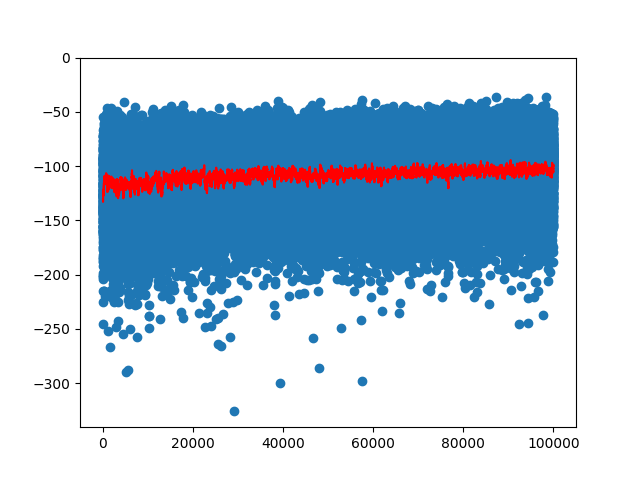
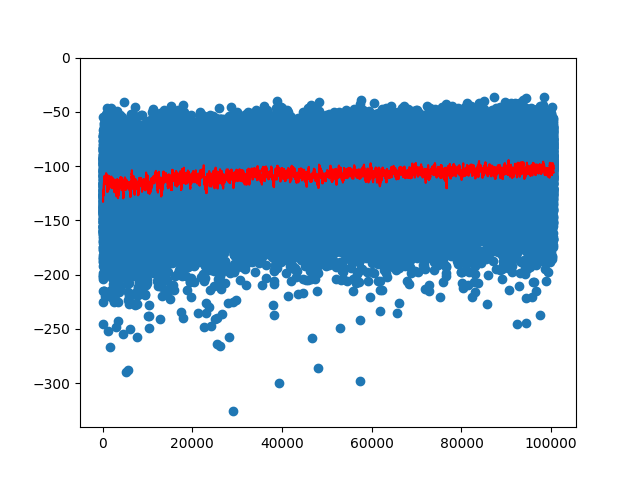
loading rewards

diff --git a/main_mb.py b/main_mb.py
@@ -12,6 +12,7 @@ N_AGENTS = 4
 MAX_EPISODES = 1_000_001
 MAX_STEPS = 25
 BATCH_SIZE = 32
+rewards_history_path = f'mb_rewards_history_par{N_AGENTS}agents.pth'
 saved_model_path = f"model_based/saved_models{N_AGENTS}/"
 START_EPISODE = 100_000
 # ================ #
@@ -54,6 +55,11 @@ def main():
     print("cpu")
     print("Agents' processes: ", agent_procs)
     rewards_history = []
+    if START_EPISODE != 0:
+        rewards_history = torch.load(rewards_history_path)
+        rewards_history = rewards_history[:START_EPISODE+1]
+        print("loaded rewards history", len(rewards_history), rewards_history[-3:])
+
     for episode in range(START_EPISODE+1, MAX_EPISODES):
         obs, _ = env.reset()
         total_reward = 0
@@ -93,9 +99,9 @@ def main():
             ax = plt.gca()
             ax.set_ylim([None, 0])
             plt.savefig(f"mb_par{N_AGENTS}agents.png")
-            # saving data for later
-            torch.save(rewards_history, f'mb_rewards_history_par{N_AGENTS}agents.pth')
         if episode % 10_000 == 0:
+            # saving data for later
+            torch.save(rewards_history, rewards_history_path)
             for name, conn in agent_conns.items():
                 conn.send({
                     "cmd": "save",
